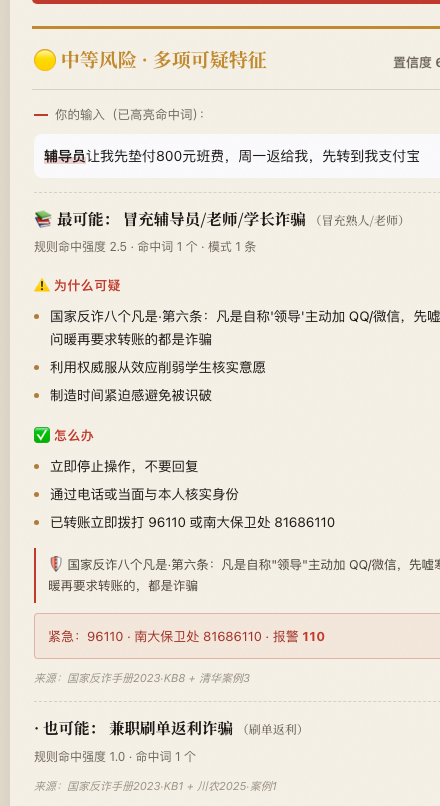
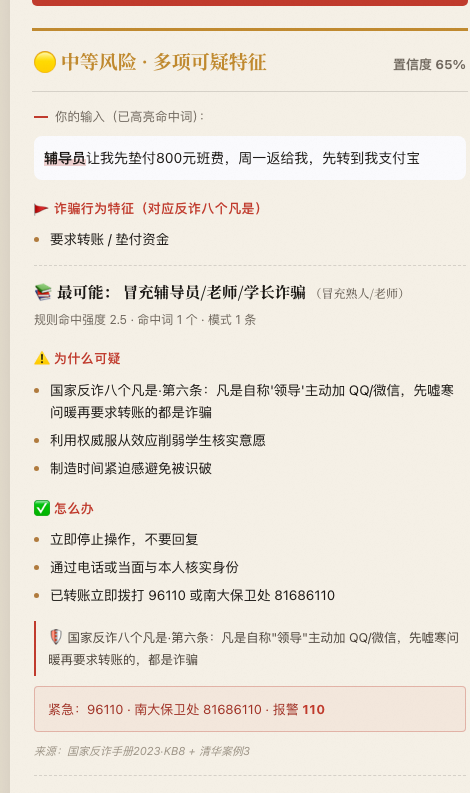
feat(engine): 升级为三路融合(规则⊕语义⊕行为红旗) + LLM Agent 分层；技术内核页与产品截图同步
- 新增第三路 demo/fraud_signals.py：抽取反诈"八个凡是"行为要素(转账/验证码/共享屏幕/冒充/紧迫/平台外/超额/保密)
  → 案例库无对应类型时也能凭行为预警，提升对未知骗局的泛化与准确性
- H5(web/index.html)接入第三路：风险卡片新增"诈骗行为特征"段；未命中但有红旗时给行为研判卡片；防窄屏溢出CSS
- 技术内核页重做为分层架构：① 端侧三路引擎(毫秒/离线/可解释) ② LLM Agent(DeepSeek)难例升级
- 产品页截图改为完整风险卡片(470宽，无裁切)

diff --git a/web/index.html b/web/index.html
@@ -57,9 +57,11 @@
   /* 风险卡片：去边框，靠顶部色条 + 细线分隔 + 大留白 */
   .card{margin-bottom:16px;animation:fade .3s ease;border-top:3px solid var(--vm)}
   @keyframes fade{from{opacity:0;transform:translateY(8px)}to{opacity:1;transform:none}}
-  .card .top{padding:14px 2px;font-family:var(--serif);font-weight:700;display:flex;
+  .card .top{padding:14px 2px;font-family:var(--serif);font-weight:700;display:flex;flex-wrap:wrap;gap:2px 10px;
     justify-content:space-between;align-items:baseline;border-bottom:1px solid var(--hair)}
-  .card .top .lv{font-size:19px} .card .top .cf{font-size:13px;color:var(--sub);font-family:var(--sans)}
+  .card .top .lv{font-size:19px;min-width:0} .card .top .cf{font-size:13px;color:var(--sub);font-family:var(--sans);flex:none}
+  /* 防窄屏溢出：卡片文字一律可断行 */
+  #out,.card,.card .body,.sec,.sec li,.ref,.emg,.kbi{min-width:0;overflow-wrap:anywhere;word-break:break-word}
   .card .body{padding:14px 2px}
   .card h3{margin:0 0 6px;font-size:15.5px;font-family:var(--serif)}
   .meta{font-size:12px;color:var(--sub);margin:0 0 10px}
@@ -217,14 +219,51 @@ function scoreCase(text, c){
   return {c, kw, pt, rule: kw.length*1.0 + pt.length*1.5};
 }
 
-// 风险判定：移植 overall_risk 的规则路分支（无向量时）
-function overallRisk(top){
-  if(!top) return {label:"暂未匹配到诈骗模式", level:"low", conf:0, emoji:"🟢", color:"var(--low)"};
-  const rs = top.rule;
-  if(rs>=3.0) return {label:"高风险 · 强烈疑似诈骗", level:"high", conf:Math.min(.99,.6+.08*rs), emoji:"🔴", color:"var(--high)"};
-  if(rs>=1.5) return {label:"中等风险 · 多项可疑特征", level:"medium", conf:Math.min(.85,.4+.1*rs), emoji:"🟡", color:"var(--mid)"};
-  if(rs>=1.0) return {label:"低-中风险 · 少量可疑信号", level:"low-medium", conf:Math.min(.5,.2+.1*rs), emoji:"🟢", color:"var(--low)"};
-  return {label:"暂未匹配到诈骗模式", level:"low", conf:0, emoji:"🟢", color:"var(--low)"};
+// ── 第三路：行为红旗（反诈八个凡是要素），与 demo/fraud_signals.py 对齐 ──
+const SIGNALS = [
+  {id:"transfer",name:"要求转账 / 垫付资金",sev:3,pats:[/转账|汇款|打款|垫付|垫资|保证金|定金|押金|手续费|解冻费|激活费|清算账户|安全账户|先转|转入|充值/]},
+  {id:"credential",name:"索要验证码 / 银行卡 / 密码",sev:3,pats:[/验证码|动态码|短信码|银行卡号|卡号|支付密码|交易密码|开户行|cvv/i]},
+  {id:"remote",name:"诱导共享屏幕 / 远程控制",sev:3,pats:[/共享屏幕|屏幕共享|远程协助|远程控制|向日葵|todesk|teamviewer/i]},
+  {id:"secrecy",name:"要求保密 / 单独行动",sev:3,pats:[/不要(告诉|让|声张).{0,8}(家人|父母|老师|同学|朋友|警察|任何人)|保密|别声张|单独(操作|前往)/]},
+  {id:"impersonate",name:"冒充权威 / 熟人身份",sev:2,pats:[/公安|警官|检察院|法院|公检法|反诈中心|涉嫌(洗钱|犯罪)/,/(自称|冒充|我是).{0,4}(客服|领导|辅导员|老师|学长|班主任|快递)/]},
+  {id:"install",name:"诱导下载 App / 点不明链接",sev:2,pats:[/下载.{0,5}(app|软件|应用|客户端)|点击?.{0,6}链接|扫码下载|安装.{0,5}(app|软件)|https?:\/\//i]},
+  {id:"toogood",name:"承诺超额 / 稳赚回报",sev:2,pats:[/稳赚|稳定.{0,2}收益|高额(返利|收益|回报)|返利|返佣|内幕|必过|包过|日入|轻松赚|高回报|秒到账|低价转让|翻倍|空投/]},
+  {id:"offplatform",name:"诱导脱离平台私下交易",sev:2,pats:[/私下交易|加(我)?(微信|qq)|脱离平台|不(要|走)平台|平台外|走线下/i]},
+  {id:"urgency",name:"制造紧迫 / 恐吓",sev:1,pats:[/立即|马上|尽快|限时|否则|冻结|涉案|通缉|逾期|影响征信|不然就|最后(期限|机会)/]},
+];
+function extractSignals(text){
+  const out=[];
+  for(const s of SIGNALS){ for(const p of s.pats){ try{ if(p.test(text)){out.push(s);break;} }catch(e){} } }
+  return out;
+}
+function behaviorAssess(hits){
+  if(!hits.length) return {sev:0,level:null};
+  const sev=hits.reduce((a,h)=>a+h.sev,0), strong=hits.filter(h=>h.sev>=3).length;
+  const level=(strong>=2||sev>=6)?"high":(hits.length>=2||sev>=3)?"medium":"low-medium";
+  return {sev,level};
+}
+const RISKMETA={high:{emoji:"🔴",color:"var(--high)"},medium:{emoji:"🟡",color:"var(--mid)"},"low-medium":{emoji:"🟢",color:"var(--low)"}};
+const RANK={"low-medium":1,medium:2,high:3};
+function sigSection(hits){
+  if(!hits.length) return "";
+  return `<div class="sec"><b>🚩 诈骗行为特征（对应反诈八个凡是）</b><ul>${hits.map(h=>`<li>${esc(h.name)}</li>`).join("")}</ul></div>`;
+}
+
+// 风险判定：规则路 + 行为红旗融合，取更高等级（行为可在案例未命中时抬升风险）
+function overallRisk(top, beh){
+  let level=null, conf=0, label=null;
+  if(top){ const rs=top.rule;
+    if(rs>=3.0){level="high";label="高风险 · 强烈疑似诈骗";conf=Math.min(.99,.6+.08*rs);}
+    else if(rs>=1.5){level="medium";label="中等风险 · 多项可疑特征";conf=Math.min(.85,.4+.1*rs);}
+    else if(rs>=1.0){level="low-medium";label="低-中风险 · 少量可疑信号";conf=Math.min(.5,.2+.1*rs);}
+  }
+  if(beh&&beh.level&&(!level||RANK[beh.level]>RANK[level])){
+    level=beh.level;
+    label=level==="high"?"高风险 · 多项诈骗行为特征":level==="medium"?"中等风险 · 命中诈骗行为特征":"低-中风险 · 少量诈骗行为";
+    conf=Math.max(conf, level==="high"?.9:level==="medium"?.75:.5);
+  }
+  if(!level) return {label:"暂未匹配到诈骗模式",level:"low",conf:0,emoji:"🟢",color:"var(--low)"};
+  const m=RISKMETA[level]; return {label,level,conf,emoji:m.emoji,color:m.color};
 }
 
 function highlight(text, kws){
@@ -254,9 +293,28 @@ function detect(){
   const text = document.getElementById("inp").value.trim();
   const out = document.getElementById("out");
   if(!text){ out.innerHTML=""; return; }
+  const sigHits = extractSignals(text);          // 第三路：行为红旗
+  const beh = behaviorAssess(sigHits);
   const scored = KB.cases.map(c=>scoreCase(text,c)).filter(m=>m.rule>=1.0)
                   .sort((a,b)=>b.rule-a.rule).slice(0,3);
   if(scored.length===0){
+    // 案例库未命中——但若行为红旗触发，仍按行为研判给出风险（对未知骗局的泛化）
+    if(beh.level){
+      const r = overallRisk(null, beh);
+      out.innerHTML = `<div class="card" style="border-top-color:${r.color}">
+        <div class="top"><span class="lv" style="color:${r.color}">${r.emoji} ${esc(r.label)}</span><span class="cf">置信度 ${Math.round(r.conf*100)}%</span></div>
+        <div class="body">
+          <p class="lbl" style="margin:0 0 8px">你的输入：</p>
+          <div style="font-size:14px;background:#fafafd;border-radius:8px;padding:10px">${esc(text)}</div>
+          <p class="meta" style="margin-top:12px">案例库暂无完全匹配，但识别到下列<b style="color:var(--ink)">诈骗行为特征</b>——这类未知变体同样要警惕：</p>
+          ${sigSection(sigHits)}
+          <div class="sec"><b>✅ 怎么办</b><ul><li>立即停止操作，不转账、不提供验证码</li><li>通过官方渠道或当面与本人核实</li><li>已操作立即拨打 96110 / 南大保卫处 81686110</li></ul></div>
+          <div class="emg">紧急：反诈专线 <b>96110</b> · 报警 <b>110</b> · 南大保卫处 <b>81686110</b></div>
+          <a class="report" href="${reportLink(text,"")}" target="_blank" rel="noopener">🚩 这也是诈骗？一键上报，帮案例库变强</a>
+        </div></div>`;
+      out.scrollIntoView({behavior:"smooth", block:"nearest"});
+      return;
+    }
     out.innerHTML = `<div class="none"><div class="big">🟢</div>
       <p>未匹配到已知诈骗模式。<br>但仍请保持警惕——遇转账/索要验证码务必多方核实。</p>
       <div class="emg">紧急：反诈专线 <b>96110</b> · 报警 <b>110</b> · 南大保卫处 <b>81686110</b></div>
@@ -264,7 +322,7 @@ function detect(){
     return;
   }
   const top = scored[0];
-  const r = overallRisk(top);
+  const r = overallRisk(top, beh);
   let html = `<div class="card" style="border-top-color:${r.color}">
     <div class="top">
       <span class="lv" style="color:${r.color}">${r.emoji} ${esc(r.label)}</span>
@@ -273,6 +331,7 @@ function detect(){
     <div class="body">
       <p class="lbl" style="margin:0 0 8px">你的输入（已高亮命中词）：</p>
       <div style="font-size:14px;background:#fafafd;border-radius:8px;padding:10px">${highlight(text, top.kw)}</div>`;
+  html += sigSection(sigHits);   // 第三路：诈骗行为特征（八个凡是）
 
   scored.forEach((m,i)=>{
     const c=m.c;

diff --git a/路演PPT_南大数智安全官.html b/路演PPT_南大数智安全官.html
@@ -252,38 +252,39 @@ ul.mini li::before{content:"";position:absolute;left:0;top:10px;width:4px;height
 </section>
 
 <!-- 6 技术内核 双路引擎 -->
-<section class="slide" data-note="技术内核是一套双路召回融合引擎。第一路关键词加正则，毫秒级、完全可解释，强命中直接定为高危；第二路用 BGE 中文句向量做语义召回，专门覆盖『换个说法』的变体——同一个共享屏幕骗局，换十种说法它都能认出来。两路并行召回后加权融合排序：综合分等于规则强度加 2.5 倍语义相似度，再用阈值门控决定是否进入结果。工程上还做了两件事：知识库做哈希缓存、改库才增量重建向量索引；模型或网络缺失时自动降级 TF-IDF，保证永不空转。所以我们不是简单的关键词匹配。">
+<section class="slide" data-note="技术内核是分层研判架构。底座是端侧的三路融合引擎，毫秒级、可离线：第一路关键词加正则，可解释、强命中即定高危；第二路 BGE 中文向量做语义召回，覆盖『换个说法』的变体；第三路是我们这次新增的行为红旗——从输入里抽取转账、索要验证码、诱导共享屏幕、冒充身份等通用诈骗行为，每个对应反诈八个凡是。它的价值是泛化：哪怕案例库里没有这种骗局，只要行为像诈骗，就能预警。三路加权融合：综合分等于规则强度加 2.5 倍语义相似度，再叠加行为红旗权重，阈值门控召回，缺模型自动降级 TF-IDF。难例再升级到上层的 LLM Agent——目前接 DeepSeek，多轮追问、调用案例库工具、给出处置方案。简单情形端侧秒判，复杂情形才上大模型，这是我们刻意的分层设计，而不是无脑调大模型。">
   <div class="stagger">
     <span class="kicker">05 — 技术内核</span>
-    <h2 style="font-size:46px;margin:14px 0 22px">双路召回融合引擎，<span class="vm">规则 ⊕ 语义</span></h2>
-    <div class="pipe" style="font-size:17px">
+    <h2 style="font-size:42px;margin:12px 0 16px">分层研判：<span class="vm">三路引擎 ＋ LLM Agent</span></h2>
+    <div class="pipe" style="font-size:16px">
       <span class="step">用户输入</span><span class="arr">→</span>
-      <span class="step">双路并行召回</span><span class="arr">→</span>
-      <span class="step">加权融合排序</span><span class="arr">→</span>
-      <span class="step vm">风险研判卡片</span>
+      <span class="step">三路并行召回</span><span class="arr">→</span>
+      <span class="step">加权融合 + 校准</span><span class="arr">→</span>
+      <span class="step">研判卡片</span><span class="arr">→</span>
+      <span class="step vm">难例升级 LLM Agent</span>
     </div>
-    <hr class="hair" style="margin:24px 0 20px">
+    <hr class="hair" style="margin:20px 0 16px">
     <div style="display:flex;gap:0;align-items:stretch">
-      <div style="flex:1;padding-right:40px">
-        <p class="serif" style="font-size:21px;color:var(--ochre);font-weight:700">规则路 · 关键词 + 正则</p>
-        <ul class="mini">
-          <li>毫秒级、零依赖、完全可解释</li>
-          <li>强命中直接定级高危</li>
-          <li>正则经 CI 校验，杜绝误编译</li>
+      <div style="flex:1.25;padding-right:38px">
+        <p class="serif" style="font-size:19px;font-weight:700">① 端侧三路引擎 <span style="font-size:13px;color:var(--ink-soft);font-weight:400">· 毫秒 / 离线 / 可解释</span></p>
+        <ul class="mini" style="font-size:14px">
+          <li><b style="color:var(--ochre)">规则路</b>　关键词 + 正则，强命中即定高危</li>
+          <li><b style="color:var(--vermilion)">语义路</b>　BGE-zh 向量，覆盖「换个说法」变体</li>
+          <li><b style="color:var(--vm)">行为红旗</b>　抽八个凡是要素（转账/验证码/共享屏幕/冒充…）——<b style="color:var(--ink)">库中无此类型也能预警</b></li>
         </ul>
       </div>
       <div class="hair-v"></div>
-      <div style="flex:1;padding-left:40px">
-        <p class="serif" style="font-size:21px;color:var(--vermilion);font-weight:700">语义路 · BGE-zh 向量召回</p>
-        <ul class="mini">
-          <li>BAAI/bge-small-zh-v1.5 中文句向量</li>
-          <li>覆盖「换个说法」的诈骗变体</li>
-          <li>知识库哈希缓存，改库才增量重建</li>
+      <div style="flex:1;padding-left:38px">
+        <p class="serif" style="font-size:19px;font-weight:700">② LLM Agent <span style="font-size:13px;color:var(--ink-soft);font-weight:400">· 难例升级（DeepSeek）</span></p>
+        <ul class="mini" style="font-size:14px">
+          <li>多轮追问关键细节</li>
+          <li>调用案例库工具查证</li>
+          <li>给出按优先级的处置方案</li>
         </ul>
       </div>
     </div>
-    <hr class="hair" style="margin:22px 0 14px">
-    <p class="serif" style="font-size:17px;color:var(--ink-soft)">综合分 ＝ 规则强度 <span class="vm">＋ 2.5 ×</span> 语义相似度　·　阈值门控召回　·　模型/网络缺失自动降级 TF-IDF，永不空转</p>
+    <hr class="hair" style="margin:18px 0 12px">
+    <p class="serif" style="font-size:15px;color:var(--ink-soft)">综合分 ＝ 规则 <span class="vm">＋ 2.5×</span> 语义 <span class="vm">＋</span> 行为红旗加权　·　阈值门控　·　缺模型自动降级 TF-IDF　·　简单端侧秒判、复杂才上大模型</p>
   </div>
 </section>
 

diff --git a/demo/fraud_signals.py b/demo/fraud_signals.py
@@ -1,0 +1,111 @@
+#!/usr/bin/env python3
+"""
+行为红旗信号层 · 反诈"八个凡是"要素抽取（检测引擎第三路）
+=========================================================
+
+双路召回（关键词/正则 + BGE 语义）解决的是"这条输入像库里哪一类诈骗"。
+但诈骗每天都在出新花样——库里没有的变体怎么办？
+
+第三路从输入中抽取【通用诈骗行为信号】（要求转账、索要验证码、诱导共享屏幕、
+冒充权威、制造紧迫、脱离平台、超额回报、要求保密……），每个信号对应国家反诈
+"八个凡是"。只要行为模式像诈骗，**即使案例库里没有对应类型，也能给出风险预警**。
+
+这让引擎从"案例匹配"升级为"案例匹配 + 行为研判"：更准、更鲁棒、更适用于未知骗局。
+纯标准库实现，Python 端引擎、评测、H5 可共用同一套定义。
+"""
+
+from __future__ import annotations
+
+import re
+from dataclasses import dataclass
+
+# severity：3=强信号（几乎必诈），2=中信号，1=弱信号（需与其它信号叠加）
+SIGNALS: list[dict] = [
+    {"id": "transfer", "name": "要求转账 / 垫付资金", "severity": 3,
+     "rule": "凡是要求转账、垫付、缴纳保证金 / 解冻费的，高度可疑",
+     "patterns": [r"(转账|汇款|打款|垫付|垫资|保证金|定金|押金|手续费|解冻费|激活费|清算账户|安全账户|先转|转入|充值)"]},
+    {"id": "credential", "name": "索要验证码 / 银行卡 / 密码", "severity": 3,
+     "rule": "八个凡是·第七条：要你提供短信验证码、银行卡号 / 密码的，都是诈骗",
+     "patterns": [r"(验证码|动态码|短信码|银行卡号|卡号|支付密码|交易密码|开户行|CVV)"]},
+    {"id": "remote", "name": "诱导共享屏幕 / 远程控制", "severity": 3,
+     "rule": "要你开启『屏幕共享』或安装远程控制软件的，都是诈骗",
+     "patterns": [r"(共享屏幕|屏幕共享|远程协助|远程控制|向日葵|todesk|teamviewer|会议软件.{0,6}(协助|操作))"]},
+    {"id": "secrecy", "name": "要求保密 / 单独行动", "severity": 3,
+     "rule": "要你『别告诉家人 / 老师 / 警察』、单独行动的，几乎一定是诈骗",
+     "patterns": [r"(不要(告诉|让|声张).{0,8}(家人|父母|老师|同学|朋友|警察|任何人)|保密|别声张|单独(操作|前往))"]},
+    {"id": "impersonate", "name": "冒充权威 / 熟人身份", "severity": 2,
+     "rule": "八个凡是·第五 / 六条：自称公检法要求转入『安全账户』、或自称领导熟人借钱的，都是诈骗",
+     "patterns": [r"(公安|警官|检察院|法院|公检法|反诈中心|涉嫌(洗钱|犯罪))",
+                  r"(自称|冒充|我是).{0,4}(客服|领导|辅导员|老师|学长|班主任|快递)"]},
+    {"id": "install", "name": "诱导下载 App / 点不明链接", "severity": 2,
+     "rule": "八个凡是·第七 / 八条：发来不明链接、要你下载陌生 App 的，都是诈骗",
+     "patterns": [r"(下载.{0,5}(App|软件|应用|客户端)|点(击)?.{0,6}链接|扫码下载|安装.{0,5}(App|软件)|https?://|[a-z0-9-]+\.(xyz|top|cc|vip|link))"]},
+    {"id": "toogood", "name": "承诺超额 / 稳赚回报", "severity": 2,
+     "rule": "八个凡是·第一 / 二条：宣称稳赚不赔、内幕消息、高额返利、刷单返佣的，都是诈骗",
+     "patterns": [r"(稳赚|稳定.{0,2}收益|高额(返利|收益|回报)|返利|返佣|内幕|必过|包过|日入|轻松赚|高回报|秒到账|低价转让|翻倍|空投)"]},
+    {"id": "offplatform", "name": "诱导脱离平台私下交易", "severity": 2,
+     "rule": "让你脱离正规平台、私下加微信 / QQ 交易的，要警惕",
+     "patterns": [r"(私下交易|加(我)?(微信|qq)|脱离平台|不(要|走)平台|平台外|走线下|绕过.{0,4}平台)"]},
+    {"id": "urgency", "name": "制造紧迫 / 恐吓", "severity": 1,
+     "rule": "制造紧张气氛、催你『立即处理』、以冻结 / 涉案恐吓的，多半是诈骗",
+     "patterns": [r"(立即|马上|尽快|限时|否则|冻结|涉案|通缉|逾期|影响征信|不然就|最后(期限|机会))"]},
+]
+
+
+@dataclass
+class SignalHit:
+    id: str
+    name: str
+    severity: int
+    rule: str
+
+
+def extract_signals(text: str) -> list[SignalHit]:
+    """抽取输入中命中的诈骗行为信号。"""
+    out: list[SignalHit] = []
+    for s in SIGNALS:
+        for p in s["patterns"]:
+            try:
+                if re.search(p, text, re.IGNORECASE):
+                    out.append(SignalHit(s["id"], s["name"], s["severity"], s["rule"]))
+                    break
+            except re.error:
+                continue
+    return out
+
+
+def behavior_assessment(hits: list[SignalHit]) -> tuple[float, str | None]:
+    """根据红旗组合给出 (行为风险增量, 行为研判等级)。
+
+    研判等级用于在案例库未命中时兜底——这正是对未知骗局的泛化能力：
+    - 高危：≥2 个强信号，或严重度合计 ≥ 6（如 转账 + 索要验证码 + 紧迫）
+    - 中危：≥2 个信号，或严重度合计 ≥ 3
+    - 低-中：单个弱/中信号
+    """
+    if not hits:
+        return 0.0, None
+    sev = sum(h.severity for h in hits)
+    strong = sum(1 for h in hits if h.severity >= 3)
+    if strong >= 2 or sev >= 6:
+        level = "high"
+    elif len(hits) >= 2 or sev >= 3:
+        level = "medium"
+    else:
+        level = "low-medium"
+    return float(sev), level
+
+
+if __name__ == "__main__":  # 自测
+    samples = [
+        "客服说我快递丢了要退款，让我下载会议软件开共享屏幕核对银行卡流水",
+        "你涉嫌洗钱，请立即把钱转入安全账户配合调查，不要告诉家人",
+        "今天天气不错一起去图书馆吧",  # 非诈骗
+        "一个库里完全没有的新骗局：扫码领数字藏品空投，先转 0.1 验证地址再返高额收益",
+    ]
+    for t in samples:
+        hits = extract_signals(t)
+        sev, lvl = behavior_assessment(hits)
+        print(f"\n输入：{t[:30]}")
+        print(f"  红旗 {len(hits)} 个 / 严重度 {sev:.0f} / 行为研判：{lvl or '无'}")
+        for h in hits:
+            print(f"    · {h.name}")